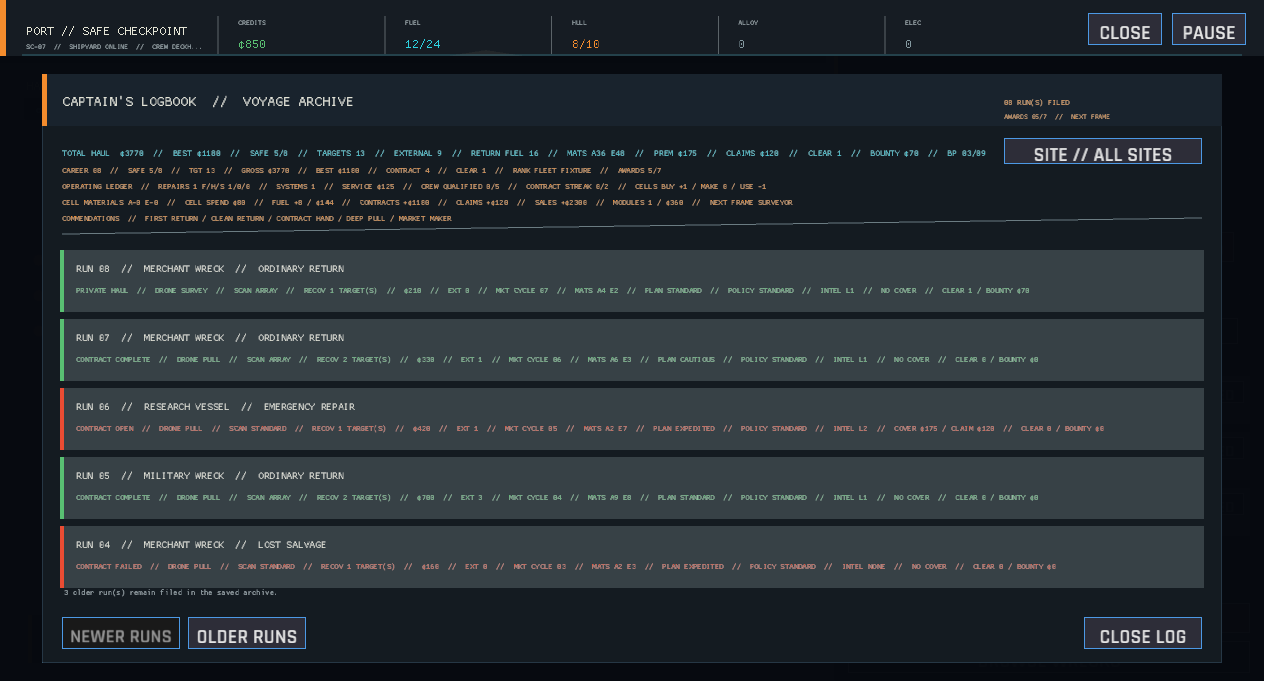
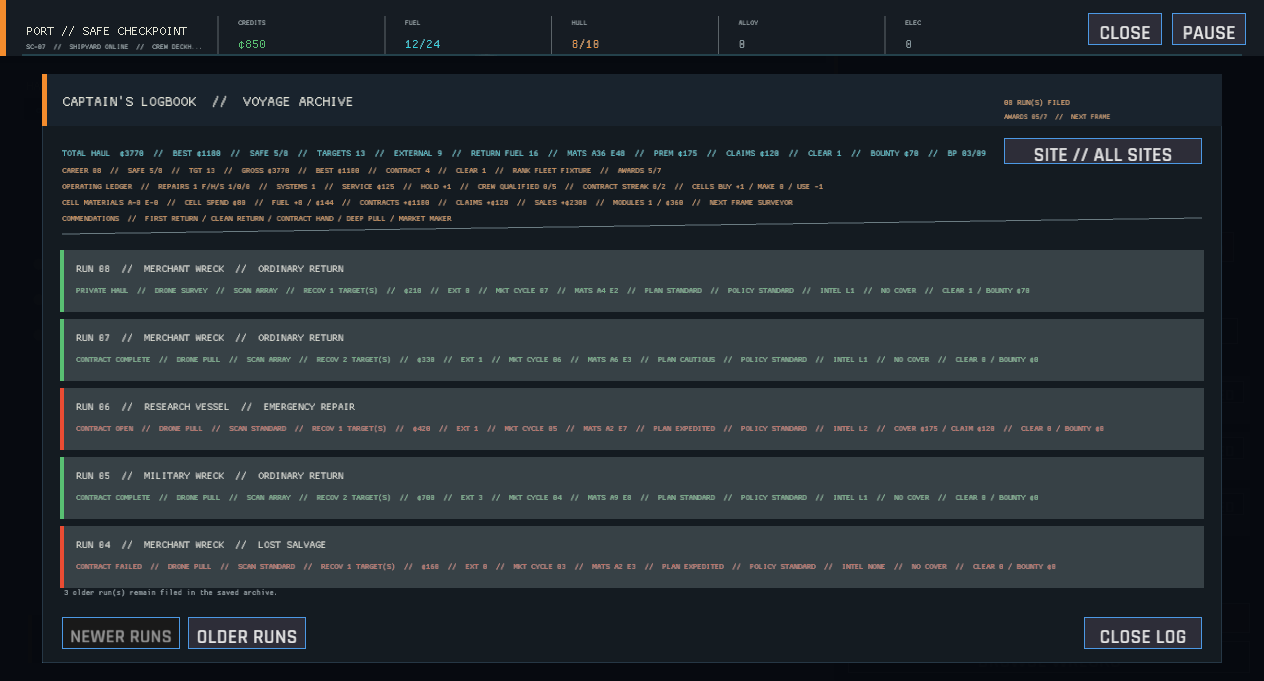
File the hold work in the captain's ledger (cargo bay career telemetry, GDD progression, milestone 46)
Every cargo-bay expansion now counts in career operations and the voyage archive. The logbook fixture demonstrates the new hold history beside service, crew, contract, and field-cell records.

Changed region(s): [[0.3085, 0.2467, 0.6479, 0.2775], [0.1234, 0.1233, 0.1543, 0.1542], [0.0617, 0.1233, 0.0926, 0.1542]]

diff --git a/src/ui/voyage_archive/tests.rs b/src/ui/voyage_archive/tests.rs
@@ -120,6 +120,7 @@ fn career_summary_names_the_lifetime_dossier() {
         sale_income: 240,
         module_changes: 1,
         module_spend: 360,
+        cargo_bay_upgrades: 1,
     };
 
     assert_eq!(
@@ -129,7 +130,7 @@ fn career_summary_names_the_lifetime_dossier() {
     assert_eq!(
         career_operations_summary(&stats),
         (
-            "OPERATING LEDGER  //  REPAIRS 2 F/H/S 2/0/0  //  SYSTEMS 2  //  SERVICE ¢195  //  CREW QUALIFIED 0/5  //  CONTRACT STREAK 0/0  //  CELLS BUY +0 / MAKE 0 / USE -0".to_owned(),
+            "OPERATING LEDGER  //  REPAIRS 2 F/H/S 2/0/0  //  SYSTEMS 2  //  SERVICE ¢195  //  HOLD +1  //  CREW QUALIFIED 0/5  //  CONTRACT STREAK 0/0  //  CELLS BUY +0 / MAKE 0 / USE -0".to_owned(),
             "CELL MATERIALS A-0 E-0  //  CELL SPEND ¢0  //  FUEL +12 / ¢216  //  CONTRACTS +¢180  //  CLAIMS +¢120  //  SALES +¢240  //  MODULES 1 / ¢360  //  NEXT MARKET MAKER".to_owned(),
         )
     );

diff --git a/src/ui/voyage_archive.rs b/src/ui/voyage_archive.rs
@@ -400,13 +400,14 @@ fn career_operations_summary(stats: &CareerStats) -> (String, String) {
         .next_award()
         .map_or("ALL COMMENDATIONS", CareerAward::label);
     let operations = format!(
-        "OPERATING LEDGER  //  REPAIRS {} F/H/S {}/{}/{}  //  SYSTEMS {}  //  SERVICE ¢{}  //  CREW QUALIFIED {}/5  //  CONTRACT STREAK {}/{}  //  CELLS BUY +{} / MAKE {} / USE -{}",
+        "OPERATING LEDGER  //  REPAIRS {} F/H/S {}/{}/{}  //  SYSTEMS {}  //  SERVICE ¢{}  //  HOLD +{}  //  CREW QUALIFIED {}/5  //  CONTRACT STREAK {}/{}  //  CELLS BUY +{} / MAKE {} / USE -{}",
         stats.repairs_completed,
         stats.full_overhauls,
         stats.hull_patches,
         stats.systems_services,
         stats.systems_restored,
         stats.repair_spend,
+        stats.cargo_bay_upgrades,
         stats.crew_qualified_count(),
         stats.contract_streak,
         stats.best_contract_streak,

diff --git a/src/state/career.rs b/src/state/career.rs
@@ -109,6 +109,8 @@ pub struct CareerStats {
     pub sale_income: i64,
     pub module_changes: u32,
     pub module_spend: i64,
+    #[serde(default)]
+    pub cargo_bay_upgrades: u32,
 }
 
 impl CareerStats {
@@ -228,6 +230,10 @@ impl CareerStats {
     pub fn record_module_change(&mut self, total_cost: i64) {
         self.module_changes = self.module_changes.saturating_add(1);
         self.module_spend = self.module_spend.saturating_add(total_cost.max(0));
+    }
+
+    pub fn record_cargo_bay_upgrade(&mut self) {
+        self.cargo_bay_upgrades = self.cargo_bay_upgrades.saturating_add(1);
     }
 
     pub fn earned_awards(&self) -> Vec<CareerAward> {

diff --git a/src/state/career/tests.rs b/src/state/career/tests.rs
@@ -108,11 +108,13 @@ fn career_stats_record_service_work() {
     stats.record_insurance_claim(120);
     stats.record_sale(240);
     stats.record_module_change(360);
+    stats.record_cargo_bay_upgrade();
     assert_eq!(stats.contract_income, 180);
     assert_eq!(stats.insurance_claims, 120);
     assert_eq!(stats.sale_income, 240);
     assert_eq!(stats.module_changes, 1);
     assert_eq!(stats.module_spend, 360);
+    assert_eq!(stats.cargo_bay_upgrades, 1);
     stats.validate().unwrap();
 }
 

diff --git a/src/game/capture.rs b/src/game/capture.rs
@@ -765,6 +765,7 @@ impl Game {
             self.session.career.record_contract_income(1180);
             self.session.career.record_sale(2300);
             self.session.career.record_module_change(360);
+            self.session.career.record_cargo_bay_upgrade();
             self.session.career.record_contract_failure();
         }
         let capture_message = (scene == "port_repaired").then(|| self.message.clone());

diff --git a/src/state/cargo_bay.rs b/src/state/cargo_bay.rs
@@ -70,6 +70,7 @@ impl GameSession {
         }
         self.economy.credits -= cost;
         self.cargo_bay_level += 1;
+        self.career.record_cargo_bay_upgrade();
         Ok(format!(
             "Expanded the cargo bay to {} internal berths for {cost} credits.",
             self.internal_cargo_capacity()
